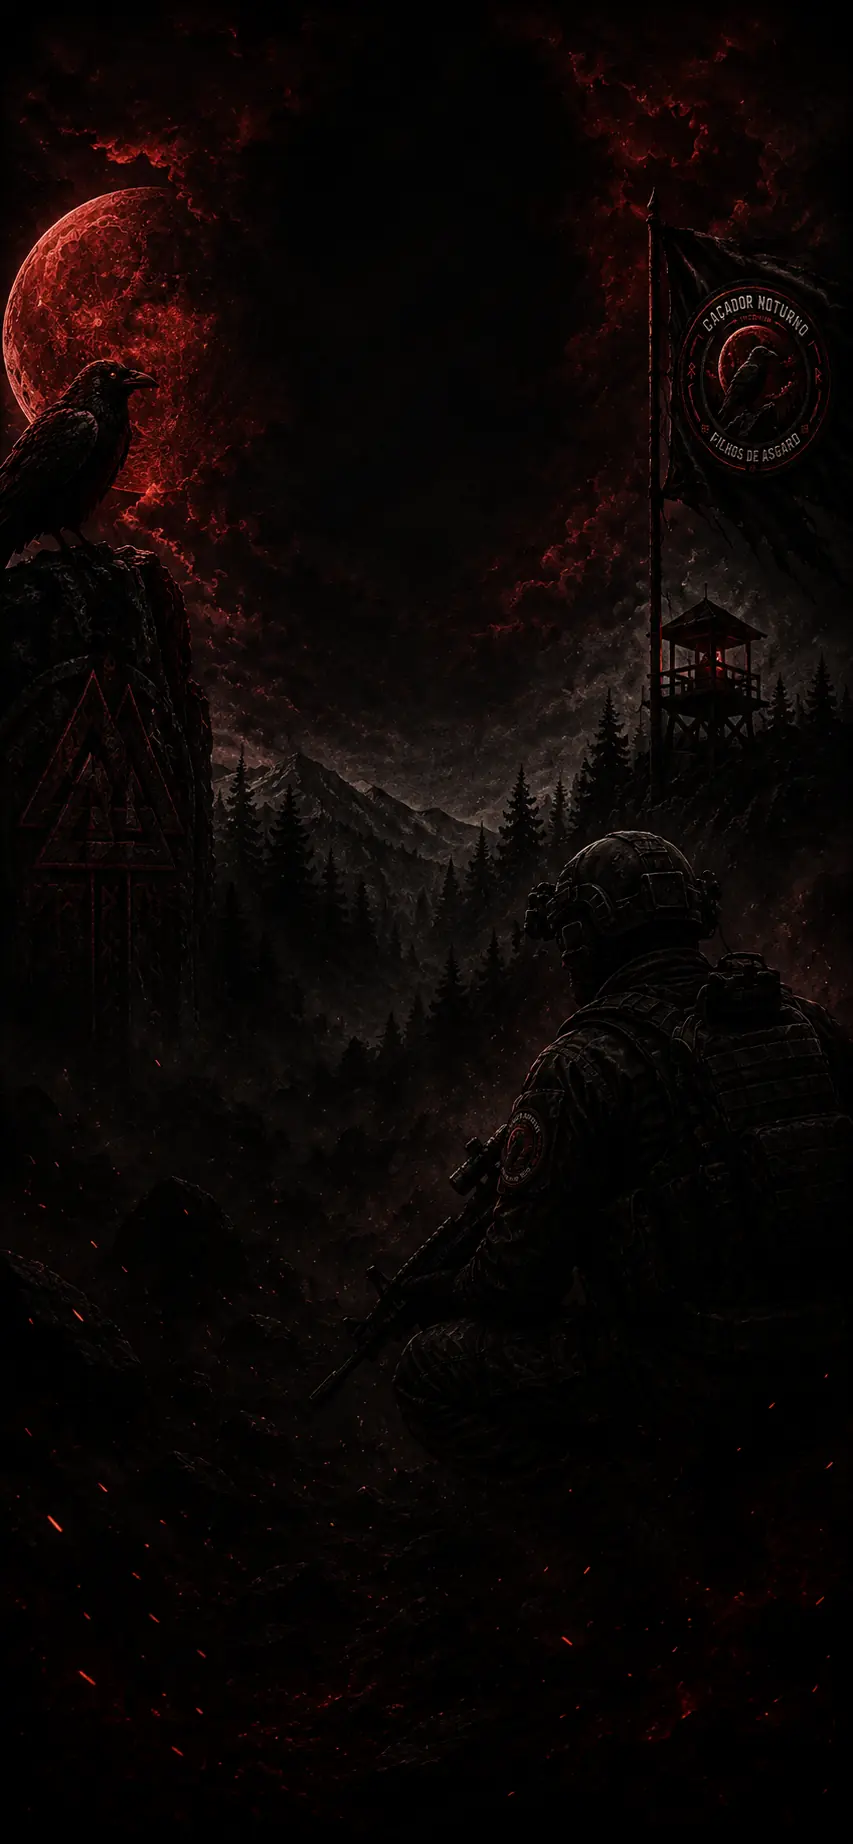
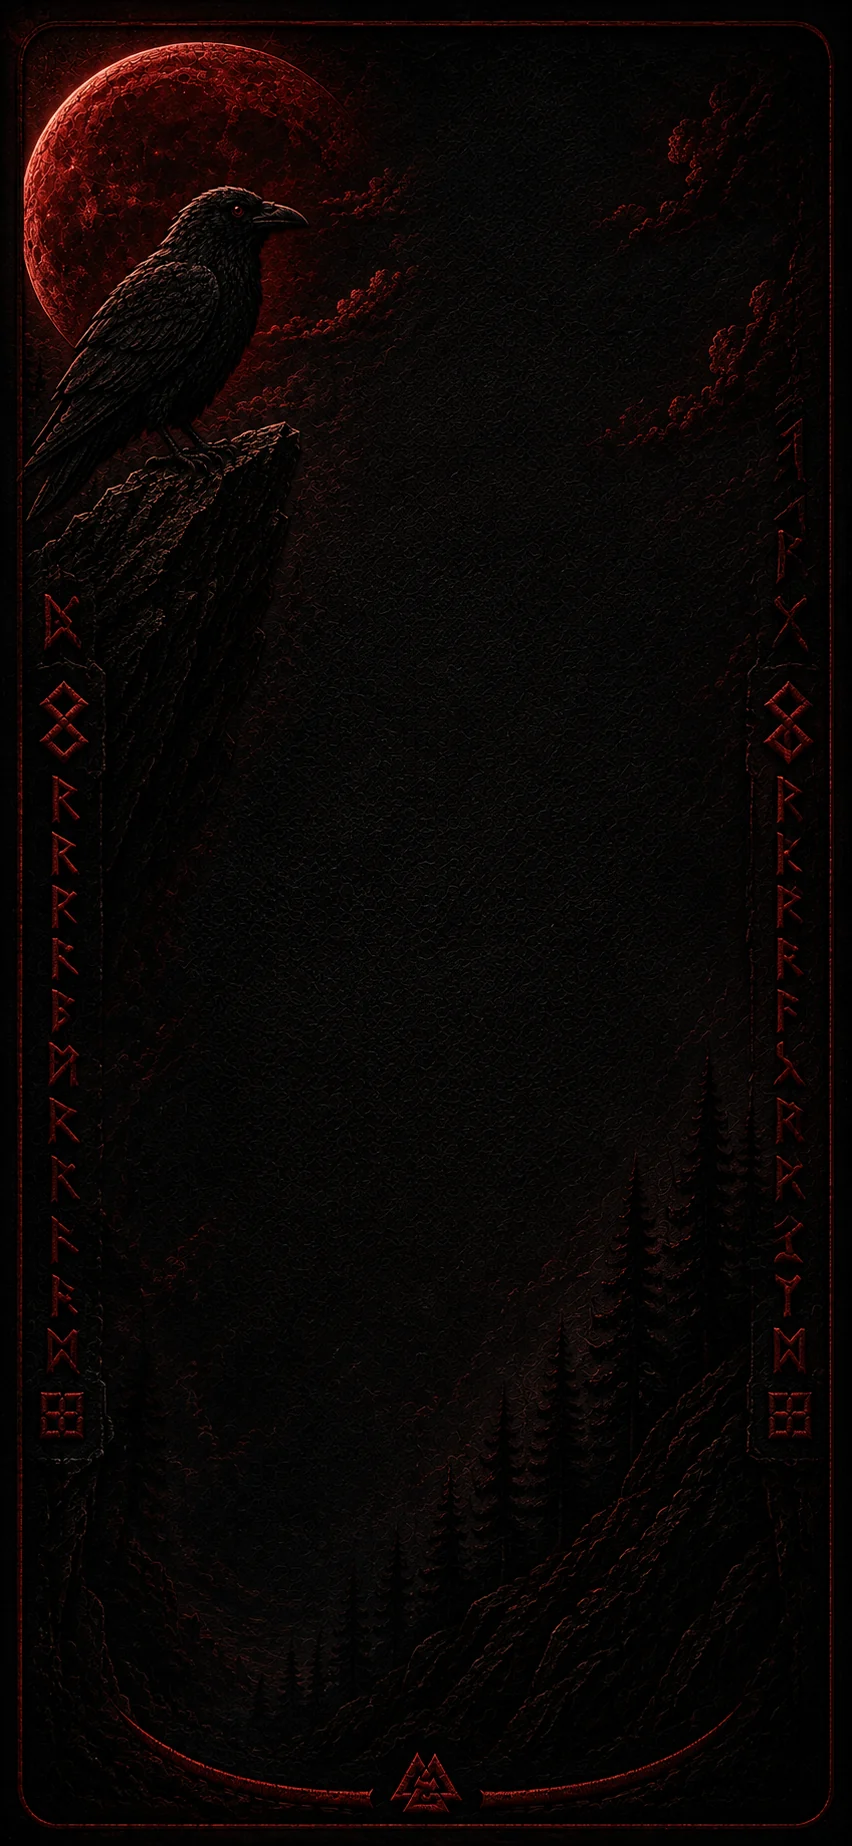
1.0.1

diff --git a/style.css b/style.css
@@ -4050,6 +4050,13 @@ body::before{
 .profile-card[data-profile-bg="reward-primeira-vitoria"],.profile-background-thumb[data-profile-bg="reward-primeira-vitoria"],.profile-background-preview[data-profile-bg="reward-primeira-vitoria"]{background-image:linear-gradient(180deg,rgba(0,6,8,.04),rgba(0,4,6,.29)),url('./assets/profile-backgrounds/primeira-vitoria.webp')!important;background-size:cover!important;background-position:center top!important}
 .profile-card[data-profile-bg="reward-veterano-asgard"],.profile-background-thumb[data-profile-bg="reward-veterano-asgard"],.profile-background-preview[data-profile-bg="reward-veterano-asgard"]{background-image:linear-gradient(180deg,rgba(4,4,4,.04),rgba(2,2,2,.31)),url('./assets/profile-backgrounds/veterano-de-asgard.webp')!important;background-size:cover!important;background-position:center top!important}
 
+
+.profile-card[data-profile-bg="reward-berserker"],.profile-background-thumb[data-profile-bg="reward-berserker"],.profile-background-preview[data-profile-bg="reward-berserker"]{background-image:linear-gradient(180deg,rgba(8,0,0,.04),rgba(4,0,0,.28)),url('./assets/profile-backgrounds/berserker.webp')!important;background-size:cover!important;background-position:center top!important}
+.profile-card[data-profile-bg="reward-guardiao-dos-caidos"],.profile-background-thumb[data-profile-bg="reward-guardiao-dos-caidos"],.profile-background-preview[data-profile-bg="reward-guardiao-dos-caidos"]{background-image:linear-gradient(180deg,rgba(8,0,0,.04),rgba(4,0,0,.28)),url('./assets/profile-backgrounds/guardiao-dos-caidos.webp')!important;background-size:cover!important;background-position:center top!important}
+.profile-card[data-profile-bg="reward-50-operacoes"],.profile-background-thumb[data-profile-bg="reward-50-operacoes"],.profile-background-preview[data-profile-bg="reward-50-operacoes"]{background-image:linear-gradient(180deg,rgba(3,0,8,.04),rgba(2,0,5,.29)),url('./assets/profile-backgrounds/50-operacoes.webp')!important;background-size:cover!important;background-position:center top!important}
+.profile-card[data-profile-bg="reward-25-operacoes"],.profile-background-thumb[data-profile-bg="reward-25-operacoes"],.profile-background-preview[data-profile-bg="reward-25-operacoes"]{background-image:linear-gradient(180deg,rgba(3,0,8,.04),rgba(2,0,5,.29)),url('./assets/profile-backgrounds/25-operacoes.webp')!important;background-size:cover!important;background-position:center top!important}
+.profile-card[data-profile-bg="reward-voz-de-asgard"],.profile-background-thumb[data-profile-bg="reward-voz-de-asgard"],.profile-background-preview[data-profile-bg="reward-voz-de-asgard"]{background-image:linear-gradient(180deg,rgba(3,0,8,.04),rgba(2,0,5,.29)),url('./assets/profile-backgrounds/voz-de-asgard.webp')!important;background-size:cover!important;background-position:center top!important}
+
 .profile-card[data-profile-bg^="reward-"]::after{background:linear-gradient(180deg,rgba(2,7,10,.16),rgba(2,7,10,.42) 46%,rgba(2,7,10,.76))}
 .profile-card[data-profile-bg^="reward-"] .profile-details,.profile-card[data-profile-bg^="reward-"] .operator-progress-panel,.profile-card[data-profile-bg^="reward-"] .profile-equipment,.profile-card[data-profile-bg^="reward-"] .profile-achievements-panel{background:rgba(3,8,11,.70)!important;backdrop-filter:blur(8px);-webkit-backdrop-filter:blur(8px)}
 
@@ -4057,4 +4064,260 @@ body::before{
     .profile-background-setting{align-items:stretch;flex-direction:column}.profile-background-setting .btn-secondary{width:100%}
     .profile-background-gallery{grid-template-columns:1fr;max-height:49vh}.profile-background-option{grid-template-columns:86px 1fr 24px}
     .profile-background-thumb{height:58px}.profile-background-preview{height:92px;padding:14px}
+}
+
+/* ========================================================================== 
+   CROSS-PLATFORM RESPONSIVE PASS v7 — MOBILE • TABLET • DESKTOP
+   Preserves app logic and improves layout, touch ergonomics and readability.
+   ========================================================================== */
+:root{
+  --content-max: 1560px;
+  --page-pad-x: clamp(14px, 2.2vw, 34px);
+  --page-pad-y: clamp(14px, 2vw, 28px);
+  --touch-min: 44px;
+}
+html{
+  -webkit-text-size-adjust:100%;
+  text-size-adjust:100%;
+  background:var(--bg-primary);
+}
+body{
+  overscroll-behavior:none;
+  min-width:320px;
+}
+button,input,select,textarea{font:inherit}
+button,.nav-item,.filter-btn,.admin-tab,.profile-background-option{-webkit-tap-highlight-color:transparent}
+
+/* App shell / safe areas */
+#app-screen{
+  width:100%;
+  height:100dvh;
+  min-height:100svh;
+  padding-top:env(safe-area-inset-top,0px);
+  padding-bottom:env(safe-area-inset-bottom,0px);
+}
+#main-content{min-width:0;min-height:0}
+.topbar{
+  flex:0 0 var(--topbar-height);
+  padding-left:max(18px,env(safe-area-inset-left));
+  padding-right:max(18px,env(safe-area-inset-right));
+}
+.page{
+  min-width:0;
+  padding:var(--page-pad-y) var(--page-pad-x) max(30px,env(safe-area-inset-bottom));
+  scroll-padding-bottom:32px;
+  overscroll-behavior-y:contain;
+}
+.page>*{max-width:var(--content-max);margin-left:auto;margin-right:auto}
+.page>.modal,.page>.toast,.page>.sidebar-overlay{max-width:none}
+
+/* Desktop navigation: calm, readable, scroll-safe */
+.sidebar{width:clamp(228px,17vw,272px);flex:0 0 clamp(228px,17vw,272px)}
+.sidebar-nav{overflow-y:auto;overflow-x:hidden;min-height:0;padding-bottom:14px}
+.nav-item{min-height:44px;padding:10px 14px;gap:10px}
+.nav-label{min-width:0;overflow:hidden;text-overflow:ellipsis;white-space:nowrap}
+.topbar-actions{min-width:0;display:flex;align-items:center;gap:8px}
+.topbar-user{min-width:0}
+.topbar-callsign{max-width:220px;overflow:hidden;text-overflow:ellipsis;white-space:nowrap}
+
+/* Fluid content grids */
+.dashboard-grid{grid-template-columns:repeat(12,minmax(0,1fr));gap:clamp(12px,1.4vw,18px)}
+.dashboard-grid>.dash-card{min-width:0}
+.games-list,.members-list,.admin-history-list,.admin-audit-list{min-width:0}
+.product-grid{grid-template-columns:repeat(auto-fit,minmax(min(100%,250px),1fr));gap:clamp(12px,1.5vw,18px)}
+.arsenal-gallery{grid-template-columns:repeat(auto-fit,minmax(min(100%,230px),1fr));gap:clamp(11px,1.4vw,17px)}
+.achievements-grid{grid-template-columns:repeat(auto-fit,minmax(min(100%,270px),1fr));gap:clamp(12px,1.4vw,18px)}
+.admin-overview-grid{grid-template-columns:repeat(auto-fit,minmax(180px,1fr))}
+.diagnostic-grid{grid-template-columns:repeat(auto-fit,minmax(210px,1fr))}
+
+/* Forms and controls */
+.input-group input,.input-group select,.input-group textarea,.admin-search,.arsenal-tools input,.arsenal-tools select{
+  max-width:100%;
+}
+.btn-primary,.btn-secondary,.btn-danger,.btn-logout,.filter-btn,.admin-tab{
+  min-height:var(--touch-min);
+}
+button:disabled,.btn-primary:disabled,.btn-secondary:disabled,.btn-danger:disabled{
+  cursor:not-allowed!important;
+  opacity:.48!important;
+  transform:none!important;
+  box-shadow:none!important;
+}
+
+/* Cards: prevent overflow from long names / metadata */
+.game-card,.member-card,.achievement-card,.arsenal-card,.profile-card,.admin-history-card,.admin-audit-item{min-width:0}
+.game-title,.member-info,.achievement-card-body,.arsenal-card-body,.profile-details{min-width:0}
+.game-title,.profile-callsign,.achievement-card-body h3{overflow-wrap:anywhere}
+.game-meta{flex-wrap:wrap;row-gap:7px}
+.game-actions{flex-wrap:wrap}
+.game-actions>*{max-width:100%}
+
+/* Profile scales without becoming excessively wide */
+.profile-container{width:min(100%,1080px);margin-inline:auto}
+.profile-card{width:100%;max-width:1080px;margin-inline:auto}
+.profile-card[data-profile-bg]{background-attachment:scroll!important;background-position:center top!important}
+.profile-background-modal-content{width:min(94vw,880px)!important}
+.profile-background-gallery{grid-template-columns:repeat(2,minmax(0,1fr))}
+.profile-background-option{min-width:0}
+.profile-background-option-copy{min-width:0}
+.profile-background-option-copy strong,.profile-background-option-copy small{overflow-wrap:anywhere}
+
+/* Chat takes available viewport and remains usable with virtual keyboards */
+.chat-container{
+  height:calc(100dvh - var(--topbar-height) - (var(--page-pad-y) * 2));
+  min-height:420px;
+  max-height:900px;
+}
+.chat-messages{min-height:0;overscroll-behavior:contain}
+.chat-input-area{padding-bottom:max(10px,env(safe-area-inset-bottom))}
+.chat-msg-content{max-width:min(78%,720px)}
+
+/* Modals: desktop centered, mobile safe and scrollable */
+.modal{padding:max(12px,env(safe-area-inset-top)) max(12px,env(safe-area-inset-right)) max(12px,env(safe-area-inset-bottom)) max(12px,env(safe-area-inset-left));overflow:auto}
+.modal-content{width:min(92vw,640px);max-height:min(88dvh,900px);overflow:auto;margin:auto}
+.modal-actions{position:sticky;bottom:-1px;padding-top:12px;background:linear-gradient(180deg,transparent 0,#09151b 24%)}
+
+/* Tablet / compact desktop */
+@media (min-width:769px) and (max-width:1180px){
+  :root{--sidebar-width:224px;--page-pad-x:20px}
+  .sidebar{width:224px;flex-basis:224px}
+  .sidebar-header{padding:16px 12px}
+  .sidebar-header h2{letter-spacing:2.4px;font-size:.76rem}
+  .nav-item{padding:10px 11px;font-size:.88rem}
+  .nav-icon{width:24px;font-size:1.08rem}
+  .dashboard-grid{grid-template-columns:repeat(2,minmax(0,1fr))}
+  .dashboard-grid>.dash-card{grid-column:auto!important}
+  .admin-overview-grid{grid-template-columns:repeat(2,minmax(0,1fr))}
+  .diagnostic-counts{grid-template-columns:repeat(3,minmax(0,1fr))}
+  .profile-background-gallery{grid-template-columns:repeat(2,minmax(0,1fr))}
+}
+
+/* Mobile / phone */
+@media (max-width:768px){
+  :root{--topbar-height:58px;--page-pad-x:12px;--page-pad-y:13px}
+  #app-screen{display:block}
+  #main-content{width:100%;height:100%;min-height:0}
+  .sidebar{
+    width:min(86vw,304px);height:100dvh;flex-basis:auto;
+    padding-left:env(safe-area-inset-left,0px);
+    padding-bottom:env(safe-area-inset-bottom,0px);
+  }
+  .sidebar-header{padding-top:max(16px,env(safe-area-inset-top))}
+  .sidebar-nav{padding:10px 9px 16px}
+  .nav-item{min-height:48px;border-radius:11px;padding:11px 13px}
+  .btn-logout{min-height:48px}
+  .topbar{position:sticky;top:0;z-index:170;height:var(--topbar-height);min-height:var(--topbar-height);gap:9px;padding-left:max(9px,env(safe-area-inset-left));padding-right:max(9px,env(safe-area-inset-right));backdrop-filter:blur(14px);-webkit-backdrop-filter:blur(14px)}
+  .btn-menu{width:44px;height:44px;display:grid;place-items:center;flex:0 0 44px;border-radius:11px}
+  .topbar-title{font-size:clamp(.76rem,3.5vw,.9rem);letter-spacing:1.1px;max-width:none;min-width:0}
+  .topbar-callsign{display:none}
+  .role-badge{font-size:.56rem;letter-spacing:1px;padding:3px 7px}
+  .page{height:calc(100dvh - var(--topbar-height));padding-bottom:max(26px,env(safe-area-inset-bottom))}
+  .page>*{width:100%}
+
+  .dashboard-grid{grid-template-columns:1fr!important}
+  .dashboard-grid>.dash-card{grid-column:1!important;width:100%}
+  .dashboard-operator-hero{grid-template-columns:1fr!important}
+  .stat-row{display:grid;grid-template-columns:repeat(2,minmax(0,1fr));gap:8px}
+  .stat-item{min-width:0}
+
+  .games-header,.loja-header,.achievements-header,.arsenal-header,.contribuicao-header,.admin-section-heading{align-items:stretch!important}
+  .games-filter,.admin-panel-tabs{margin-left:-2px;margin-right:-2px;padding-left:2px;padding-right:2px;scroll-snap-type:x proximity}
+  .filter-btn,.admin-tab{scroll-snap-align:start;flex:0 0 auto}
+  .game-card{padding:14px!important}
+  .game-card-header{align-items:flex-start;gap:9px;flex-wrap:wrap}
+  .game-meta{display:grid;grid-template-columns:1fr;gap:6px}
+  .game-actions{display:grid!important;grid-template-columns:1fr!important;gap:8px;width:100%}
+  .game-actions button,.game-actions .btn-primary,.game-actions .btn-secondary,.game-actions .btn-danger{width:100%;min-height:46px}
+  .game-confirmed-list{max-height:240px;overflow:auto}
+
+  .product-grid,.achievements-grid,.arsenal-gallery{grid-template-columns:1fr!important}
+  .arsenal-tools{display:grid!important;grid-template-columns:1fr!important;gap:8px;width:100%}
+  .arsenal-tools input,.arsenal-tools select{width:100%!important;min-height:46px}
+
+  .profile-container,.profile-card{max-width:100%}
+  .profile-card{padding:16px!important;border-radius:17px!important}
+  .profile-avatar-wrapper{margin-inline:auto}
+  .profile-callsign{font-size:clamp(1.35rem,7vw,1.8rem)!important;letter-spacing:1.7px!important}
+  .profile-row{grid-template-columns:1fr!important;gap:3px!important;align-items:start!important}
+  .profile-actions{display:grid;grid-template-columns:1fr;gap:8px}
+  .profile-actions button{width:100%;min-height:46px}
+  .profile-achievements-list{display:grid;grid-template-columns:repeat(3,minmax(0,1fr));gap:8px}
+  .profile-badge{width:100%;min-width:0}
+
+  .profile-background-modal-content{width:calc(100vw - 16px)!important;max-height:92dvh!important}
+  .profile-background-gallery{grid-template-columns:1fr!important;max-height:54dvh}
+  .profile-background-option{grid-template-columns:82px minmax(0,1fr) 24px!important;gap:9px}
+  .profile-background-thumb{width:82px;height:58px}
+  .profile-background-preview{height:96px;padding:12px}
+
+  .admin-panel-header{align-items:flex-start!important;gap:12px}
+  .admin-overview-grid,.diagnostic-grid{grid-template-columns:1fr 1fr!important}
+  .admin-quick-actions,.diagnostic-actions{display:grid;grid-template-columns:1fr;gap:8px}
+  .admin-quick-actions button,.diagnostic-actions button{width:100%}
+  .admin-history-card-head{flex-direction:column;gap:5px}
+  .admin-history-stats{gap:8px}
+  .diagnostic-counts{grid-template-columns:repeat(2,minmax(0,1fr))!important}
+
+  .contribuicao-info,.contribuicao-stats{grid-template-columns:1fr!important}
+  .contribuicao-member-card{padding:12px!important}
+  .contribuicao-member-top,.contribuicao-member-bottom{gap:9px;flex-wrap:wrap}
+  .contribuicao-status-select{width:100%;min-height:44px}
+
+  .chat-container{height:calc(100dvh - var(--topbar-height) - 26px);min-height:0;max-height:none;border-radius:14px!important}
+  .chat-msg-content{max-width:86%}
+  .chat-msg-avatar{width:30px;height:30px;flex:0 0 30px}
+  .chat-input-area{gap:7px;padding-left:9px!important;padding-right:9px!important}
+  .chat-input-area input{min-width:0;height:46px}
+  .btn-send{width:46px;height:46px;flex:0 0 46px}
+
+  .modal{align-items:flex-end!important;padding:0!important}
+  .modal-content{width:100%!important;max-width:none!important;max-height:92dvh!important;margin:auto 0 0!important;border-radius:20px 20px 0 0!important;padding-bottom:max(16px,env(safe-area-inset-bottom))!important}
+  .modal-actions{display:grid!important;grid-template-columns:1fr!important;gap:8px;bottom:calc(-1 * env(safe-area-inset-bottom,0px))}
+  .modal-actions button{width:100%;min-height:46px}
+  .toast{width:min(calc(100vw - 24px),440px);bottom:max(14px,env(safe-area-inset-bottom))}
+}
+
+/* Narrow phones */
+@media (max-width:420px){
+  :root{--page-pad-x:9px}
+  .topbar{gap:6px}
+  .topbar-actions{gap:4px}
+  .role-badge{display:none}
+  .stat-row{grid-template-columns:1fr 1fr}
+  .admin-overview-grid{grid-template-columns:1fr!important}
+  .diagnostic-counts{grid-template-columns:1fr 1fr!important}
+  .profile-achievements-list{grid-template-columns:repeat(2,minmax(0,1fr))}
+  .profile-background-option{grid-template-columns:72px minmax(0,1fr) 22px!important;padding:7px}
+  .profile-background-thumb{width:72px;height:54px}
+  .achievement-badge-wrap{height:175px}
+  .achievement-badge-image{width:135px;height:135px}
+}
+
+/* Landscape phones: maximize useful height */
+@media (max-height:520px) and (orientation:landscape) and (max-width:950px){
+  :root{--topbar-height:52px;--page-pad-y:8px}
+  .topbar{min-height:52px;height:52px}
+  .page{height:calc(100dvh - 52px);padding-top:8px;padding-bottom:10px}
+  .sidebar{width:min(72vw,286px)}
+  .sidebar-header{padding:8px 12px}.sidebar-header .brand-logo,.mini-shield{width:36px!important}.sidebar-header h2{margin-top:3px}
+  .nav-item{min-height:42px;padding:8px 12px}
+  .chat-container{height:calc(100dvh - 52px - 16px)}
+  .modal-content{max-height:96dvh!important}
+  .profile-background-gallery{max-height:58dvh}
+}
+
+/* Large desktop / ultrawide: avoid stretched cards */
+@media (min-width:1500px){
+  :root{--content-max:1680px;--page-pad-x:38px}
+  .dashboard-grid{gap:20px}
+  .games-list{display:grid;grid-template-columns:repeat(2,minmax(0,1fr));gap:16px}
+  .game-card{height:100%}
+  .product-grid{grid-template-columns:repeat(auto-fit,minmax(270px,1fr))}
+  .arsenal-gallery{grid-template-columns:repeat(auto-fit,minmax(250px,1fr))}
+}
+
+/* Keyboard / accessibility polish */
+:focus-visible{outline:2px solid rgba(39,229,247,.85);outline-offset:2px}
+@media (hover:none){
+  .dash-card:hover,.game-card:hover,.member-card:hover,.achievement-card:hover,.arsenal-card:hover,.store-product-card:hover,.admin-overview-card:hover,.admin-history-card:hover,.admin-alert-card:hover,.profile-background-option:hover{transform:none!important}
 }

diff --git a/app.js b/app.js
@@ -195,10 +195,15 @@
 
         // Fundos de recompensa: liberados automaticamente quando a conquista vinculada é recebida.
         { id:'reward-lobo-asgard', name:'Lobo de Asgard', subtitle:'Recompensa de conquista', icon:'🐺', category:'achievement', unlockTitle:'Lobo de Asgard' },
+        { id:'reward-berserker', name:'Berserker', subtitle:'Recompensa de conquista', icon:'🪓', category:'achievement', unlockTitle:'Berserker' },
         { id:'reward-cacador-noturno', name:'Caçador Noturno', subtitle:'Recompensa de conquista', icon:'🌑', category:'achievement', unlockTitle:'Caçador Noturno' },
+        { id:'reward-guardiao-dos-caidos', name:'Guardião dos Caídos', subtitle:'Recompensa de conquista', icon:'🛡', category:'achievement', unlockTitle:'Guardião dos Caídos' },
         { id:'reward-ceifador', name:'Ceifador', subtitle:'Recompensa de conquista', icon:'☠', category:'achievement', unlockTitle:'Ceifador' },
         { id:'reward-olho-odin', name:'Olho de Odin', subtitle:'Recompensa de conquista', icon:'◉', category:'achievement', unlockTitle:'Olho de Odin' },
         { id:'reward-100-baixas', name:'100 Baixas', subtitle:'Recompensa de conquista', icon:'🏅', category:'achievement', unlockTitle:'100 Baixas' },
+        { id:'reward-50-operacoes', name:'50 Operações', subtitle:'Recompensa de conquista', icon:'⚔', category:'achievement', unlockTitle:'50 Operações' },
+        { id:'reward-25-operacoes', name:'25 Operações', subtitle:'Recompensa de conquista', icon:'🛡', category:'achievement', unlockTitle:'25 Operações' },
+        { id:'reward-voz-de-asgard', name:'Voz de Asgard', subtitle:'Recompensa de conquista', icon:'📻', category:'achievement', unlockTitle:'Voz de Asgard' },
         { id:'reward-primeira-vitoria', name:'Primeira Vitória', subtitle:'Recompensa de conquista', icon:'🏆', category:'achievement', unlockTitle:'Primeira Vitoria' },
         { id:'reward-veterano-asgard', name:'Veterano de Asgard', subtitle:'Recompensa de conquista', icon:'⚔', category:'achievement', unlockTitle:'Veterano de Asgard' }
     ];

diff --git a/sw.js b/sw.js
@@ -1,11 +1,16 @@
-const CACHE_NAME = 'asgard-v-achievement-backgrounds-active-awards-v6';
+const CACHE_NAME = 'asgard-v-profile-backgrounds-v8';
 const ASSETS = [
     './', './index.html', './style.css', './app.js', './cloud.js', './firebase-config.js',
     './manifest.json', './icons/icon-192-v17.png', './icons/icon-512-v17.png', './icons/logo-asgard.png',
     './assets/profile-backgrounds/lobo-de-asgard.webp', './assets/profile-backgrounds/cacador-noturno.webp',
     './assets/profile-backgrounds/ceifador.webp', './assets/profile-backgrounds/olho-de-odin.webp',
     './assets/profile-backgrounds/100-baixas.webp', './assets/profile-backgrounds/primeira-vitoria.webp',
-    './assets/profile-backgrounds/veterano-de-asgard.webp'
+    './assets/profile-backgrounds/veterano-de-asgard.webp',
+    './assets/profile-backgrounds/berserker.webp',
+    './assets/profile-backgrounds/guardiao-dos-caidos.webp',
+    './assets/profile-backgrounds/50-operacoes.webp',
+    './assets/profile-backgrounds/25-operacoes.webp',
+    './assets/profile-backgrounds/voz-de-asgard.webp'
 ];
 
 self.addEventListener('install', event => {

diff --git a/index.html b/index.html
@@ -2,7 +2,7 @@
 <html lang="pt-BR">
 <head>
     <meta charset="UTF-8">
-    <meta name="viewport" content="width=device-width, initial-scale=1.0, maximum-scale=1.0, user-scalable=no">
+    <meta name="viewport" content="width=device-width, initial-scale=1, viewport-fit=cover">
     <meta name="theme-color" content="#0a0a0a">
     <meta name="apple-mobile-web-app-capable" content="yes">
     <meta name="apple-mobile-web-app-status-bar-style" content="black-translucent">

diff --git a/ACHIEVEMENT_PROFILE_BACKGROUNDS_V8.md b/ACHIEVEMENT_PROFILE_BACKGROUNDS_V8.md
@@ -1,0 +1,6 @@
+# Planos de fundo por conquistas — V8
+
+Novos: Berserker, Guardião dos Caídos, 50 Operações, 25 Operações e Voz de Asgard.
+Substituídos: Caçador Noturno, Ceifador e 100 Baixas.
+
+A regra de desbloqueio ativo por achievement_awards foi preservada.
